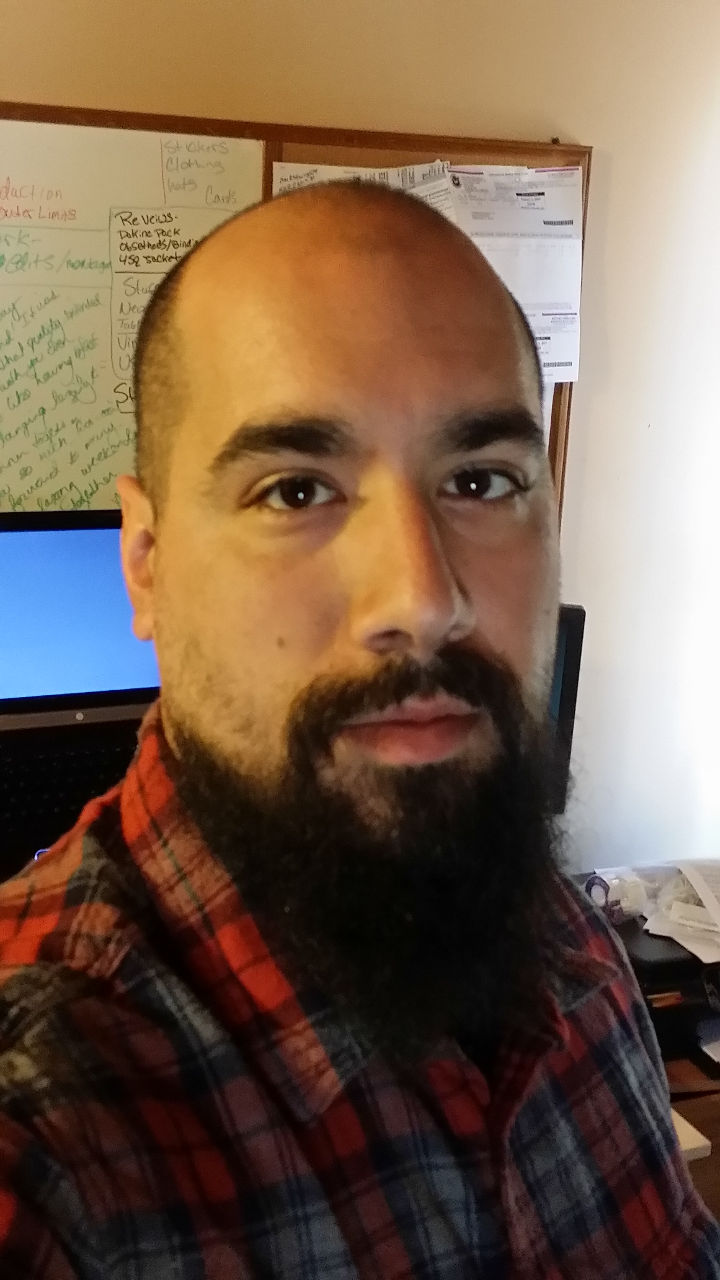
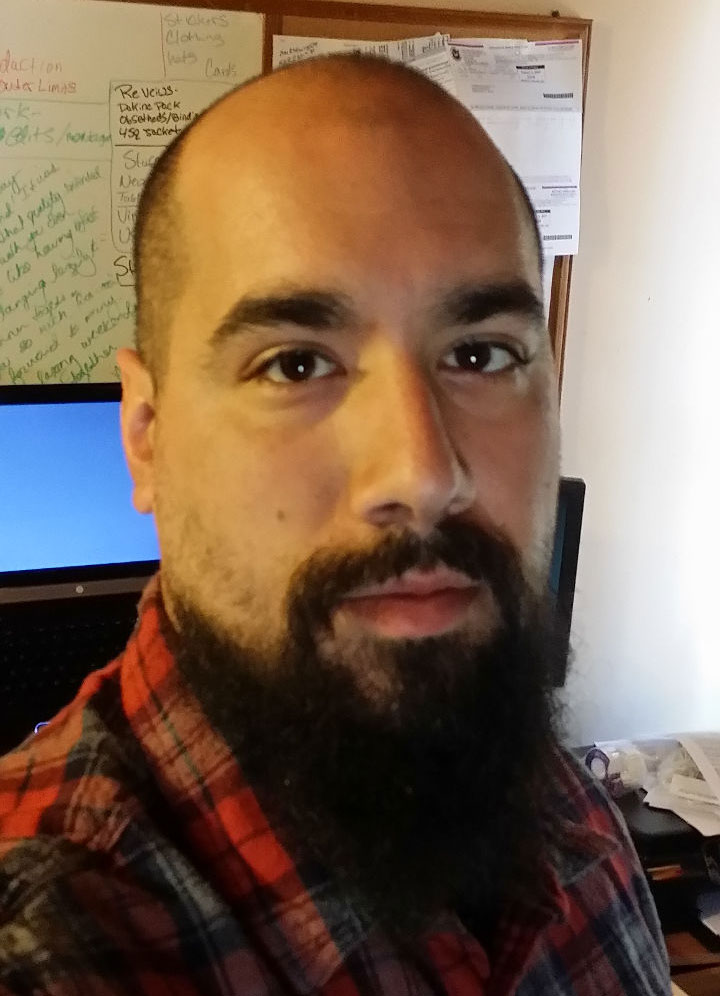
layout: Reusme Work Display
Updated data bindings, and  html formatting on the work object inside
resume.html.
Adjusted Head shot image.

TODO: Education Section.
Project Section.
Contact Page/form.
About HTML page.
One Blog Entry.

diff --git a/_src/resume.html b/_src/resume.html
@@ -25,10 +25,10 @@
 
 </head>
 
-<body>
+<body class="grey lighten-4">
     <div class="navbar-fixed">
         <nav>
-            <div class="nav-wrapper indigo">
+            <div class="nav-wrapper indigo z-depth-2">
                 <a href="#!" class="brand-logo">Personal Resume</a>
                 <a href="#" data-activates="mobile-demo" class="button-collapse">
                     <i class="fa fa-bars fa-fw"></i>
@@ -51,33 +51,33 @@
                     </li>
                 </ul>
                 <ul class="side-nav" id="mobile-demo">
-                  <li>
-                      <a data-bind="attr: { href: resumeData.bio.contacts.email }" target="_blank"><i class="fa fa-envelope fa-2x"></i> Email</a>
-                  </li>
-                  <li>
-                      <a data-bind="attr: { href: resumeData.bio.contacts.mobile }" target="_blank"><i class="fa fa-phone-square fa-2x"></i> Phone</a>
-                  </li>
-                  <li>
-                      <a data-bind="attr: { href: resumeData.bio.contacts.github }" target="_blank"><i class="fa fa-github fa-2x"></i> github</a>
-                  </li>
-                  <li>
-                      <a data-bind="attr: { href: resumeData.bio.contacts.linkedin }" target="_blank"><i class="fa fa-linkedin-square fa-2x"></i> LinkedIn</a>
-                  </li>
-                  <li>
-                      <a data-bind="attr: { href: resumeData.bio.contacts.twitter }" target="_blank"><i class="fa fa-twitter-square fa-2x"></i> Twitter</a>
-                  </li>
+                    <li>
+                        <a data-bind="attr: { href: resumeData.bio.contacts.email }" target="_blank"><i class="fa fa-envelope fa-2x"></i> Email</a>
+                    </li>
+                    <li>
+                        <a data-bind="attr: { href: resumeData.bio.contacts.mobile }" target="_blank"><i class="fa fa-phone-square fa-2x"></i> Phone</a>
+                    </li>
+                    <li>
+                        <a data-bind="attr: { href: resumeData.bio.contacts.github }" target="_blank"><i class="fa fa-github fa-2x"></i> github</a>
+                    </li>
+                    <li>
+                        <a data-bind="attr: { href: resumeData.bio.contacts.linkedin }" target="_blank"><i class="fa fa-linkedin-square fa-2x"></i> LinkedIn</a>
+                    </li>
+                    <li>
+                        <a data-bind="attr: { href: resumeData.bio.contacts.twitter }" target="_blank"><i class="fa fa-twitter-square fa-2x"></i> Twitter</a>
+                    </li>
                 </ul>
             </div>
         </nav>
     </div>
-    <div class="container">
+    <div class="container grey lighten-4">
         <div class="section">
             <div class="row">
                 <div class="col s12">
                     <div class="card-panel grey lighten-5 z-depth-2">
                         <div class="row valign-wrapper">
                             <div class="col s2">
-                                <img data-bind="attr: { src: resumeData.bio.bioPic }" src="" alt="Mark N Carpenter Jr" class="circle responsive-img">
+                                <img class="circle responsive-img z-depth-2" data-bind="attr: { src: resumeData.bio.bioPic }" src="" alt="Mark N Carpenter Jr">
                             </div>
                             <div class="col s10">
                                 <h3 data-bind="text: resumeData.bio.name"></h3>
@@ -91,7 +91,7 @@
             </div>
             <div class="row">
                 <div class="col s12">
-                    <div class="card-panel grey lighten-5 z-depth-2">
+                    <div class="card-panel blue-grey lighten-4 z-depth-2">
                         <h5>Skills</h5>
                         <div class="divider"></div>
                         <h6 data-bind="foreach: resumeData.bio.skills">
@@ -101,40 +101,72 @@
                 </div>
             </div>
             <div class="section">
-              <div class="divider"></div>
-              <div class="row">
-                <ul class="collapsible popout" data-collapsible="accordion" data-bind="visible: resumeData.ready, foreach: resumeData.work.jobs">
-                    <li class="z-index-2">
-                        <div class="collapsible-header"><h5 data-bind="text: $data.employer"></h5></div>
-                        <div class="collapsible-body">
-                            <span data-bind="text: $data.description"></span>
-                        </div>
-                    </li>
-                </ul>
-              </div>
+                <div class="row">
+                    <ul data-collapsible="accordion" data-bind="visible: resumeData.ready, foreach: resumeData.work.jobs">
+                        <li>
+                            <div class="col s12">
+                                <div class="card-panel indigo lighten-1">
+                                    <span class="white-text"><h5 data-bind="text: $data.employer"></h5></span>
+                                    <div class="divider"></div>
+                                    <div class="row white-text">
+                                        <div class="col s4">
+                                            <h6 class="center-align" data-bind="text: $data.title"></h6>
+                                        </div>
+                                        <div class="col s4">
+                                            <h6 class="center-align" data-bind="text: $data.dates"></h6>
+                                        </div>
+                                        <div class="col s4">
+                                            <h6 class="center-align" data-bind="text: $data.location"></h6>
+                                        </div>
+                                    </div>
+                                </div>
+                            </div>
+                            <div class="col s12 m6">
+                                <div class="card blue-grey lighten-4">
+                                    <div class="card-content">
+                                        <span class="card-title">Position</span>
+                                        <p data-bind="text: $data.description"></p>
+                                    </div>
+                                </div>
+                            </div>
+                            <div class="col s12 m6">
+                                <div class="card blue-grey lighten-4">
+                                    <div class="card-content">
+                                        <span class="card-title">Responsibilities</span>
+                                        <ul class="collection" data-bind="foreach: $data.duties">
+                                            <li class="collection-item" data-bind="text: $data"></li>
+                                        </ul>
+                                    </div>
+                                </div>
+                            </div>
+                        </li>
+                    </ul>
+                </div>
             </div>
             <div class="section">
-              <div class="divider"></div>
-              <div class="row">
-                <ul class="collapsible popout" data-collapsible="accordion" data-bind="visible: resumeData.ready, foreach: resumeData.education.schools">
-                    <li class="z-index-2">
-                        <div class="collapsible-header"><h5 data-bind="text: $data.name"></h5></div>
-                        <div class="collapsible-body">
-                            <span data-bind="text: $data.degree"></span>
-                        </div>
-                    </li>
-                </ul>
-              </div>
-              <div class="row">
-                <ul class="collapsible popout" data-collapsible="accordion" data-bind="visible: resumeData.ready, foreach: resumeData.education.onlineCourses">
-                    <li class="z-index-2">
-                        <div class="collapsible-header"><h5 data-bind="text: $data.title"></h5></div>
-                        <div class="collapsible-body">
-                            <span data-bind="text: $data.school"></span>
-                        </div>
-                    </li>
-                </ul>
-              </div>
+                <div class="divider"></div>
+                <div class="row">
+                    <ul class="collapsible popout" data-collapsible="accordion" data-bind="visible: resumeData.ready, foreach: resumeData.education.schools">
+                        <li class="z-index-2">
+                            <div class="collapsible-header">
+                                <h5 data-bind="text: $data.name"></h5></div>
+                            <div class="collapsible-body">
+                                <span data-bind="text: $data.degree"></span>
+                            </div>
+                        </li>
+                    </ul>
+                </div>
+                <div class="row">
+                    <ul class="collapsible popout" data-collapsible="accordion" data-bind="visible: resumeData.ready, foreach: resumeData.education.onlineCourses">
+                        <li class="z-index-2">
+                            <div class="collapsible-header">
+                                <h5 data-bind="text: $data.title"></h5></div>
+                            <div class="collapsible-body">
+                                <span data-bind="text: $data.school"></span>
+                            </div>
+                        </li>
+                    </ul>
+                </div>
             </div>
         </div>
     </div>

diff --git a/_src/index.html b/_src/index.html
@@ -37,19 +37,19 @@
 				</div>
 			</li>
 			<li>
-				<img src="img/gallery/fp/ruralTiltShift.jpg">
-				<!-- random image -->
-				<div class="caption right-align">
-					<h3 class="title">Detail Oriented</h3>
-					<h5 class="description">Sets a scene and delivers the content.</h5>
-				</div>
-			</li>
-			<li>
 				<img src="img/gallery/fp/mfg.jpg">
 				<!-- random image -->
 				<div class="caption left-align">
 					<h3 class="title">Production Ready</h3>
 					<h5 class="description">Clean well documented semantic code.</h5>
+				</div>
+			</li>
+			<li>
+				<img src="img/gallery/fp/ruralTiltShift.jpg">
+				<!-- random image -->
+				<div class="caption right-align">
+					<h3 class="title">Mobile First Evangelist</h3>
+					<h5 class="description">Consistent Encounters Across All Devices.</h5>
 				</div>
 			</li>
 			<li>
